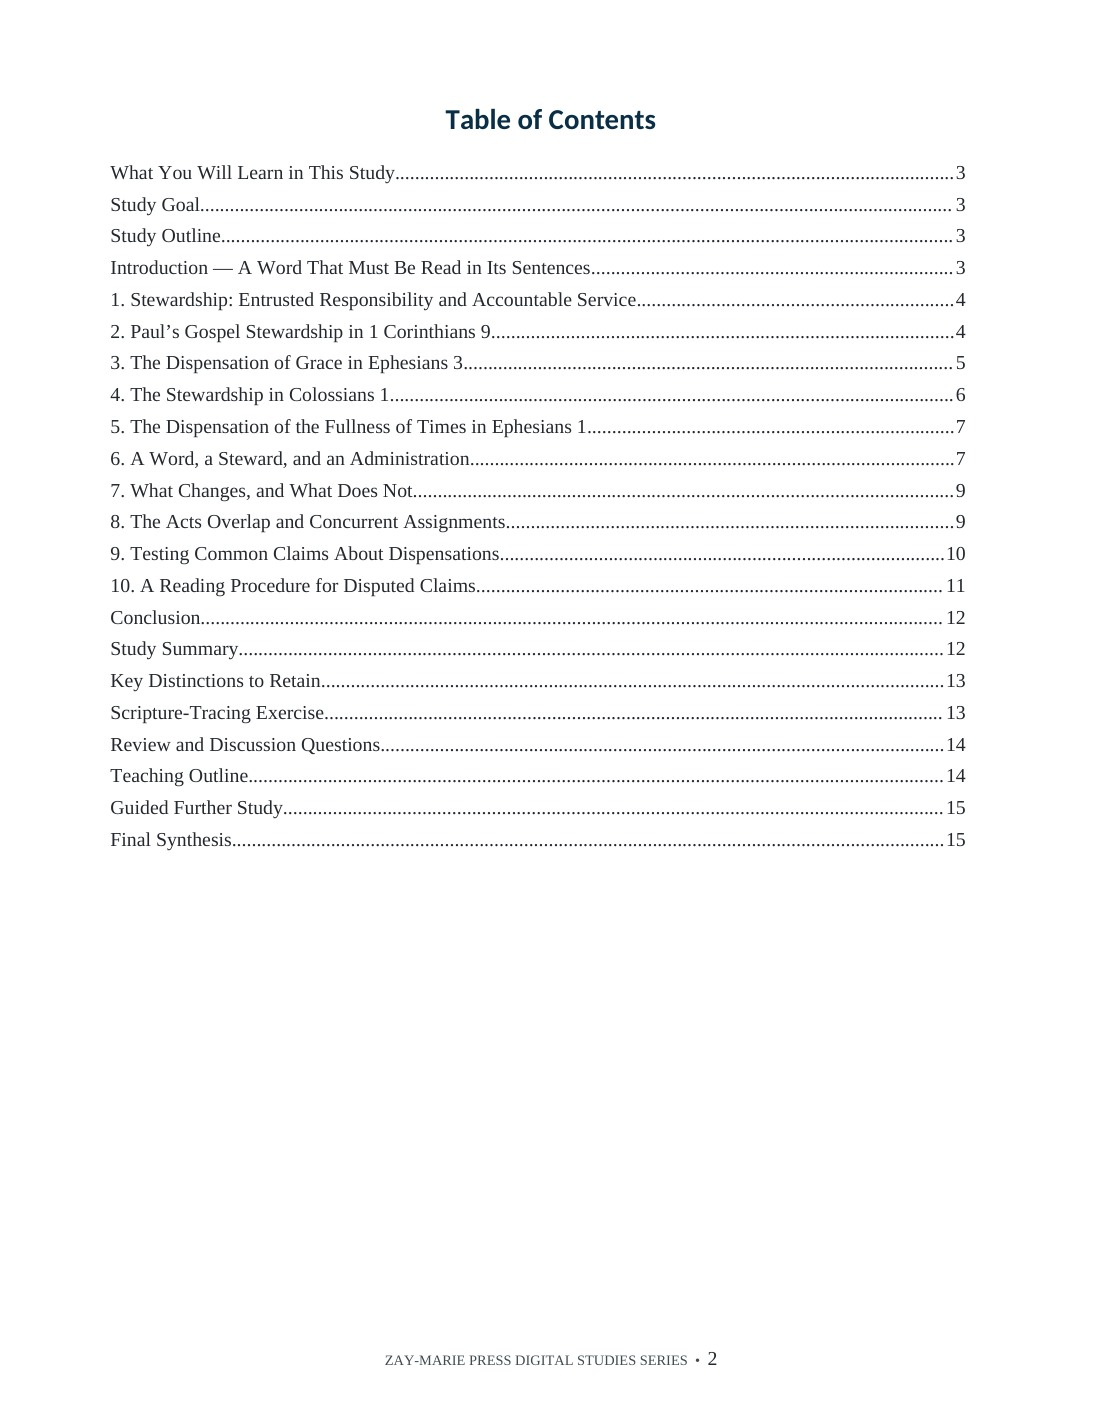
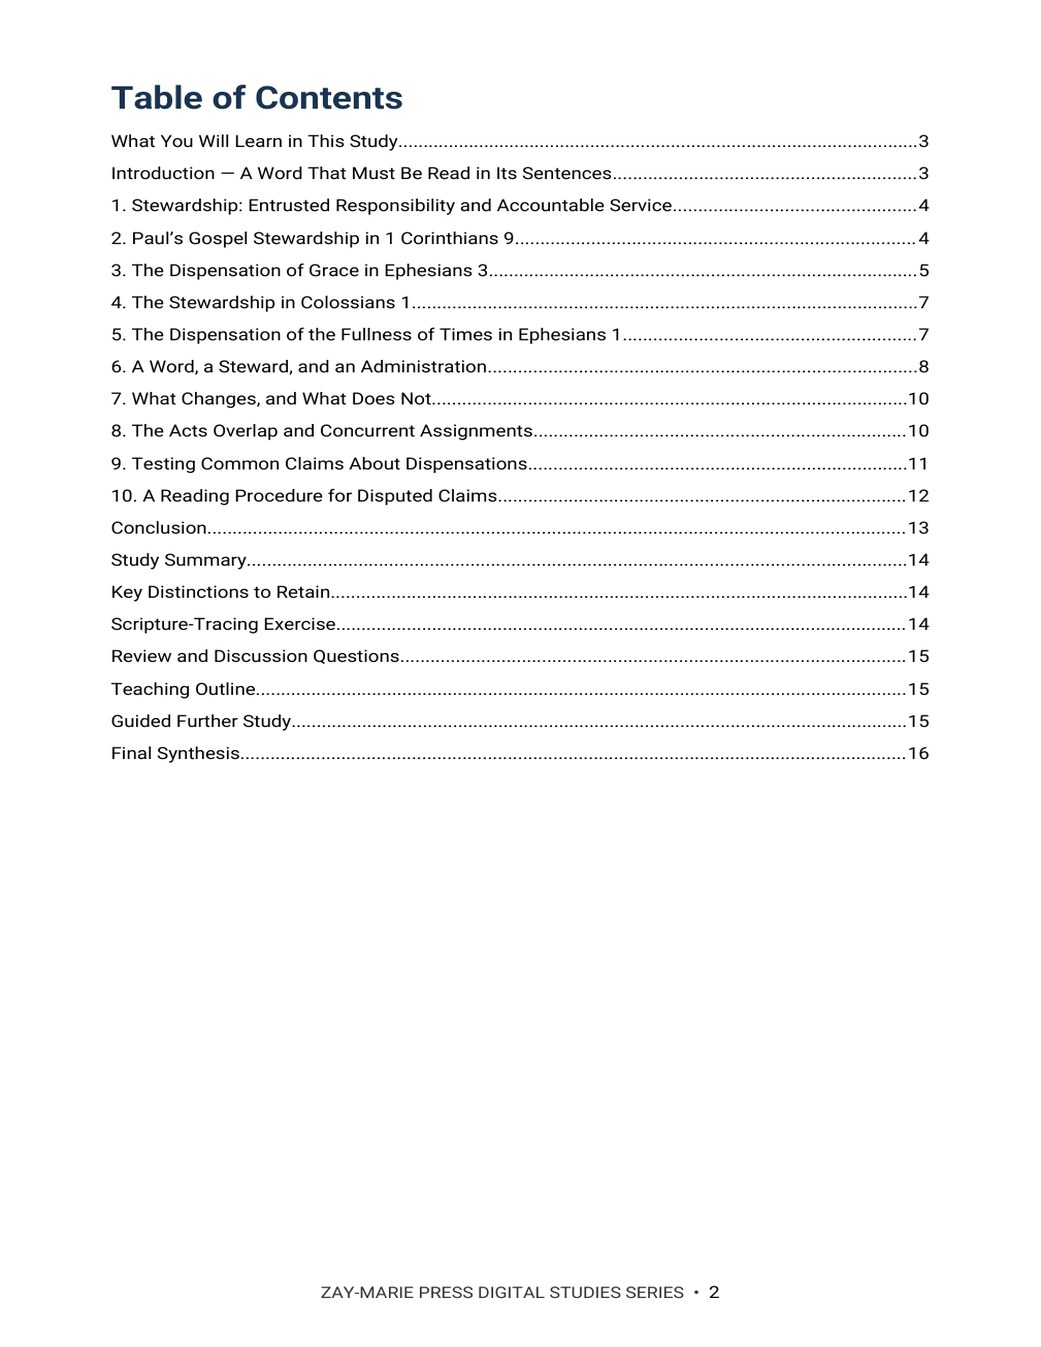
Study 58 (What Is a Dispensation?): rebuilt to Study 52 standard, previews 2/3/7, process-wording points and cards; audit v1.89
Claude-Session: https://claude.ai/code/session_013kzJPyMkodVfrxEZGjk3me

Changed region(s): [[0.0922, 0.0624, 0.8915, 0.5924], [0.3074, 0.9354, 0.6455, 0.9666]]

diff --git a/study-58-what-is-a-dispensation.html b/study-58-what-is-a-dispensation.html
@@ -4,9 +4,9 @@
 <header class="site-header"><div class="wrap nav"><a class="logo" href="index.html" aria-label="Zay-Marie Press home"><img src="assets/zay-marie-press-logo-hq.png" alt="Zay-Marie Press" width="420" height="238"></a><button class="menu-toggle" type="button" aria-expanded="false" aria-controls="primary-nav">MENU</button><nav aria-label="Primary navigation" class="primary-nav" id="primary-nav"><a href="index.html">HOME</a><a href="books.html">BOOKS</a><a href="series.html">SERIES</a><a class="active" aria-current="page" href="digital-studies.html">DIGITAL STUDIES</a><a href="biblical-hermeneutics-course.html">COURSE</a><a href="about.html">ABOUT</a><a href="resources.html">RESOURCES</a><a href="contact.html">CONTACT</a></nav></div></header><main><section class="detail-hero"><div class="wrap detail-hero-grid"><div class="detail-cover"><picture><source srcset="assets/study-58-cover.webp" type="image/webp"><img src="assets/study-58-cover.jpg" alt="What Is a Dispensation? — Study 58 cover"></picture></div><div><div class="eyebrow">STUDY 58 · BIBLICAL INTERPRETATION</div><h1>What Is a Dispensation?</h1><p class="detail-subtitle">Stewardship, Revelation, and the Administration Entrusted to Paul</p><p class="detail-kicker">What was entrusted to Paul, and for whom?</p><p class="detail-copy">“Dispensation” can be used as a label for any biblical era, but Paul speaks of a stewardship given to him for others. Study 58 follows the word in its sentences: who entrusts, who serves, what is administered, and who receives the benefit.</p><p class="detail-copy">Compare Paul’s gospel responsibility, the grace stewardship in Ephesians 3, the ministry in Colossians 1, and God’s future administration in Ephesians 1. The passages share administrative language without describing one identical assignment.</p><div class="detail-buyline"><span class="detail-price">$5.99</span><span class="detail-format">Digital PDF · 16 Pages</span><span class="detail-button pending" aria-disabled="true">Checkout Coming Soon</span></div></div></div></section>
 <section class="detail-section"><div class="wrap"><div class="eyebrow">ABOUT THIS STUDY</div><h2>Read the Stewardship in Its Context</h2><p class="lead">Ephesians 3:2 names a stewardship of God’s grace given to Paul for Gentiles. The following verses identify a formerly hidden Mystery now revealed through him and specify fellow membership in one Body in Christ by the gospel. The study distinguishes the entrusted responsibility from the truth made known through it, then compares the different administrative setting of Ephesians 1:10.</p><p class="lead">Study 6 identifies the Mystery’s content; Study 32 compares organizing theological systems; Study 57 examines eternal purpose and Christ’s headship. Study 58 supplies the narrower word and passage study needed before using “dispensation” as a system label. It also shows why Paul’s new stewardship during Acts 9–28 does not itself end Israel’s concurrent prophetic commission or cancel earlier promises.</p>
 <div class="study-distinction"><h3>How These Studies Relate</h3><p>Study 58 asks what the stewardship language actually establishes. Each connected study answers a neighboring question that the word alone cannot settle.</p><p><a href="study-06-the-mystery-revealed-through-paul.html">Study 6 — The Mystery Revealed Through Paul</a> Identify what was hidden and disclosed through Paul; Study 58 then asks how Paul was entrusted to make that truth known.</p><p><a href="study-32-covenant-theology-and-dispensational-theology.html">Study 32 — Covenant Theology and Dispensational Theology</a> Compare wider organizing systems only after testing what Paul’s term establishes in its immediate passages.</p><p><a href="study-57-the-eternal-purpose-of-god.html">Study 57 — The Eternal Purpose of God</a> Examine God’s prior purpose and future fullness without treating Ephesians 1:10 as another description of Paul’s personal commission in Ephesians 3:2.</p><p><a href="study-18-peter-and-paul-distinct-apostolic-commissions.html">Study 18 — Peter and Paul: Distinct Apostolic Commissions</a> Test the concurrent apostolic assignments from Acts and Galatians; the word “dispensation” alone cannot establish their historical timing.</p><p class="connection-guide-link"><a href="study-connections.html#study-58">Explore the full connection guide for Study 58 →</a></p></div>
-<div class="eyebrow">WHAT YOU’LL STUDY</div><h2>Follow the Entrusted Assignment</h2><div class="study-points"><div class="study-point"><h3>Meaning in Context</h3><p>Distinguish stewardship or administration from a bare period label.</p></div><div class="study-point"><h3>Gospel Responsibility</h3><p>Read Paul’s commissioned preaching and local practice in 1 Corinthians 9.</p></div><div class="study-point"><h3>Grace Stewardship</h3><p>Follow entrustment, revelation, recipients, and ministry in Ephesians 3.</p></div><div class="study-point"><h3>The Colossians Parallel</h3><p>Compare Paul’s service to the Church and the Mystery now manifest.</p></div><div class="study-point"><h3>Future Administration</h3><p>Keep Ephesians 1:10 distinct from Paul’s personal commission.</p></div><div class="study-point"><h3>Acts Overlap</h3><p>Test the concurrent assignments by narrative and apostolic evidence.</p></div></div>
-<div class="eyebrow">KEY SCRIPTURES</div><h2>Compare the Passages Before Defining the Term</h2><div class="scripture-grid"><div class="scripture-card"><h3>Luke 16:1–4</h3><p>An ordinary stewardship and its accountability.</p></div><div class="scripture-card"><h3>1 Corinthians 4:1–2</h3><p>Stewards required to be faithful.</p></div><div class="scripture-card"><h3>1 Corinthians 9:16–18</h3><p>Paul’s entrusted gospel responsibility.</p></div><div class="scripture-card"><h3>Ephesians 3:1–12</h3><p>Grace stewardship, revelation, and the Mystery’s content.</p></div><div class="scripture-card"><h3>Colossians 1:24–29</h3><p>The ministry given to Paul for the Church.</p></div><div class="scripture-card"><h3>Ephesians 1:9–10</h3><p>God’s ordering of all things in the fullness of times.</p></div><div class="scripture-card"><h3>Galatians 2:7–9</h3><p>Recognized apostolic assignments during the overlap.</p></div><div class="scripture-card"><h3>Acts 28:25–28</h3><p>Israel’s response and the national prophetic suspension.</p></div></div>
+<div class="eyebrow">WHAT YOU’LL STUDY</div><h2>Follow the Entrusted Assignment</h2><div class="study-points"><div class="study-point"><h3>Meaning in Context</h3><p>Trace oikonomia through Luke 16:1–4 and 1 Corinthians 4:1–2, noting who entrusts, who serves, and what the context must supply.</p></div><div class="study-point"><h3>Gospel Responsibility</h3><p>Read 1 Corinthians 9:16–18 for the entrusted responsibility, separating the commission from Paul’s chosen manner of exercising it.</p></div><div class="study-point"><h3>Grace Stewardship</h3><p>Follow Ephesians 3:1–12 in order, marking entrustment, revelation, the content stated in verse 6, ministry and present result.</p></div><div class="study-point"><h3>The Colossians Parallel</h3><p>Compare Colossians 1:24–29 with Ephesians 3, noting the steward, the recipients and the proclamation.</p></div><div class="study-point"><h3>Future Administration</h3><p>Read Ephesians 1:9–10 in its own sentence, noting the actor, the scope and the phrase “fulness of times.”</p></div><div class="study-point"><h3>Acts Overlap</h3><p>Test claims about dispensations against Galatians 2:7–9, Acts 15 and Acts 28:25–28, asking what each passage names beyond the word itself.</p></div></div>
+<div class="eyebrow">KEY SCRIPTURES</div><h2>Compare the Passages Before Defining the Term</h2><div class="scripture-grid"><div class="scripture-card"><h3>Luke 16:1–4</h3><p>Note the ordinary household setting: who entrusts, who serves, who is accountable.</p></div><div class="scripture-card"><h3>1 Corinthians 4:1–2</h3><p>Mark what is required of a steward and of whom.</p></div><div class="scripture-card"><h3>1 Corinthians 9:16–18</h3><p>Separate the entrusted responsibility from Paul’s chosen manner of exercising it.</p></div><div class="scripture-card"><h3>Ephesians 3:1–12</h3><p>Follow entrustment, revelation, the content of verse 6, and the ministry that results.</p></div><div class="scripture-card"><h3>Colossians 1:24–29</h3><p>Mark the steward, the giver, the recipients and the proclamation.</p></div><div class="scripture-card"><h3>Ephesians 1:9–10</h3><p>Note the actor, the scope, and the phrase “fulness of times.”</p></div><div class="scripture-card"><h3>Galatians 2:7–9</h3><p>Read what is recorded about the ministries recognized for Peter and for Paul.</p></div><div class="scripture-card"><h3>Acts 28:25–28</h3><p>Trace Paul’s citation of Isaiah, Israel’s response, and the turn to the Gentiles.</p></div></div>
 <div class="eyebrow">FROM THE STUDY</div><h2>The Question Behind the Word</h2><div class="excerpt"><blockquote>“Dispensation” names an administration or stewardship whose precise content comes from its context.</blockquote><p>Ask who entrusted it, who serves, what is ordered or made known, and who receives it before drawing a larger historical conclusion.</p></div>
-<div class="eyebrow">A LOOK INSIDE</div><h2>Preview the Study Before You Purchase</h2><p class="preview-instruction">Click any page to enlarge it for reading.</p><div class="preview-grid"><div class="preview-card"><a class="preview-image-link" data-preview-lightbox href="assets/study-58-page-2.jpg"><img src="assets/study-58-page-2.jpg" alt="Study 58 table of contents"></a><div class="page-no">Interior Page 2</div><h3>Table of Contents</h3><p>See the full structure and scope of the study.</p></div><div class="preview-card"><a class="preview-image-link" data-preview-lightbox href="assets/study-58-page-3.jpg"><img src="assets/study-58-page-3.jpg" alt="Study 58 learning outcomes and goal"></a><div class="page-no">Interior Page 3</div><h3>Learning Outcomes and Study Goal</h3><p>See the questions and interpretive controls that guide the reading.</p></div><div class="preview-card"><a class="preview-image-link" data-preview-lightbox href="assets/study-58-page-6.jpg"><img src="assets/study-58-page-6.jpg" alt="Study 58 interior page comparing Pauline stewardship passages"></a><div class="page-no">Interior Page 6</div><h3>The Stewardship in Colossians</h3><p>Read a substantive comparison without disclosing the study’s full synthesis.</p></div></div>
+<div class="eyebrow">A LOOK INSIDE</div><h2>Preview the Study Before You Purchase</h2><p class="preview-instruction">Click any page to enlarge it for reading.</p><div class="preview-grid"><div class="preview-card"><a class="preview-image-link" data-preview-lightbox href="assets/study-58-page-2.jpg"><img src="assets/study-58-page-2.jpg" alt="Study 58 table of contents"></a><div class="page-no">Interior Page 2</div><h3>Table of Contents</h3><p>See the full structure and scope of the study.</p></div><div class="preview-card"><a class="preview-image-link" data-preview-lightbox href="assets/study-58-page-3.jpg"><img src="assets/study-58-page-3.jpg" alt="Study 58 learning outcomes and goal"></a><div class="page-no">Interior Page 3</div><h3>Learning Outcomes and Study Goal</h3><p>See the questions and interpretive controls that guide the reading.</p></div><div class="preview-card"><a class="preview-image-link" data-preview-lightbox href="assets/study-58-page-7.jpg"><img src="assets/study-58-page-7.jpg" alt="Study 58 interior page comparing Pauline stewardship passages"></a><div class="page-no">Interior Page 7</div><h3>The Stewardship in Colossians</h3><p>Read a substantive comparison without disclosing the study’s full synthesis.</p></div></div>
 <div class="eyebrow">WHAT’S INCLUDED</div><h2>A Focused Study of Stewardship</h2><div class="includes-grid"><div class="include-item"><h3>16-Page Digital PDF</h3><p>Approved cover and 15-page interior with aligned contents.</p></div><div class="include-item"><h3>Ten Teaching Sections</h3><p>Move from the word’s uses to textual and historical claims.</p></div><div class="include-item"><h3>Passage Comparison Table</h3><p>Keep each administration’s subject and scope in view.</p></div><div class="include-item"><h3>Key Distinctions</h3><p>Separate stewardship, content, period, and theological system.</p></div><div class="include-item"><h3>Scripture-Tracing Exercise</h3><p>Record giver, steward, recipients, timing, and what remains unstated.</p></div><div class="include-item"><h3>Teaching Outline and Further Study</h3><p>Use guided passages to explain and test the study’s claims.</p></div></div>
 <div class="final-buy"><div><div class="eyebrow">STUDY 58 · DIGITAL STUDY</div><h2>What Is a Dispensation?</h2><p>16-page digital PDF · For personal use</p></div><div class="final-offer"><div class="detail-price">$5.99</div><span class="detail-button pending" aria-disabled="true">Checkout Coming Soon</span></div></div><a class="back-link" href="digital-studies.html">← Back to All Digital Studies</a></div></section></main><div class="preview-lightbox" id="preview-lightbox" role="dialog" aria-modal="true" aria-label="Expanded study preview"><button class="preview-lightbox-close" type="button" aria-label="Close preview">×</button><img id="preview-lightbox-image" alt=""></div><footer class="site-footer"><div class="wrap footer-grid"><div class="footer-about"><h3>Zay-Marie Press</h3><p class="footer-tagline"><em>Where the Bible Means What It Says.</em></p><p>Zay-Marie Press is a Christian theological publisher dedicated to producing doctrinally precise, carefully structured biblical resources that equip pastors, teachers, and serious students with clarity, depth, and Scripture-anchored truth.</p><p><a href="https://zaymariepress.com">zaymariepress.com</a><br><a href="mailto:info@zaymariepress.com">info@zaymariepress.com</a></p></div><div class="footer-column"><h3>Explore</h3><div class="footer-links-stacked"><a href="books.html">Books</a><br><a href="series.html">Series</a><br><a href="biblical-hermeneutics-course.html">Course</a><br><a href="digital-studies.html">Digital Studies</a><br><a href="resources.html">Resources</a><br><a href="bible-book-summaries.html">Bible Book Summaries</a><br><a href="doctrinal-packets.html">Doctrinal Packets</a><br><a href="historical-drift.html">Historical Drift</a><br><a href="about.html">About</a><br><a href="contact.html">Contact</a></div></div><div class="footer-column"><h3>Reader Support</h3><div class="footer-links-stacked"><a href="reader-support.html#faq">FAQ</a><br><a href="reader-support.html#shipping-returns">Shipping &amp; Returns</a><br><a href="reader-support.html#digital-downloads">Digital Downloads</a><br><a href="reader-support.html#contact-support">Contact Support</a></div></div><div class="footer-column"><h3>Acts Overlap</h3><p><strong>Acts Overlap Theology Series</strong></p><p><em>Two Distinct Streams. One Overlap.</em></p><p><a href="series.html">Series Overview</a></p></div></div><div class="wrap footer-bottom">© 2026 Zay-Marie Press. All rights reserved.</div></footer><script src="site.js"></script><script>const lightbox=document.getElementById('preview-lightbox'),lightboxImage=document.getElementById('preview-lightbox-image'),closeLightbox=()=>{lightbox.classList.remove('open');lightboxImage.src='';};document.querySelectorAll('[data-preview-lightbox]').forEach(link=>link.addEventListener('click',event=>{event.preventDefault();lightboxImage.src=link.href;lightboxImage.alt=link.querySelector('img').alt;lightbox.classList.add('open');}));document.querySelector('.preview-lightbox-close').addEventListener('click',closeLightbox);lightbox.addEventListener('click',event=>{if(event.target===lightbox)closeLightbox();});document.addEventListener('keydown',event=>{if(event.key==='Escape')closeLightbox();});</script></body></html>

diff --git a/controlling-documents/Digital_Studies_PAM_Audit_v1.89.md b/controlling-documents/Digital_Studies_PAM_Audit_v1.89.md
@@ -318,3 +318,4 @@ Study 15 PDF not yet supplied. Typography: none of Studies 2, 3, 6, 8 is in EB G
 - v1.86 (2026-10-02): Study 55 (Reconciled to God) read in full against the PAM and Framework from the publisher's DOCX (PRODUCTION MASTER): no conflicts and no ruling needed; conforming wording applied under Rule 10 and approved by the publisher. Rule 12 passage anchors added for Romans 5:1–11 and 2 Corinthians 5:14–21 (Ephesians and Colossians read as Body instruction under "Romans–Philemon governs the Body"); the Romans 11:25 ruling added at 8.2; the Rule 7 remnant clarifier added to Investigation 5; the standing overlap sentence added at 5.3; Ephesians 2:14 now reads "the Mosaic law, abolished for the Body" with "'brought near' is not 'made Israel'"; Acts 28 reads "national judicial suspension, not abolition" in 5.3 and 8.1. Section 17 rewrites: eight What You Will Learn points became six process points; callouts 7→5 (Interpretive Control and Peace Control became run-in paragraphs); Study Outline became a numbered list; four KJV tables added to reach 16 pages. The title-page line "Biblical Doctrine" in the source is a retired label and is not carried forward. Category: Doctrinal Themes. Built to the Study 52 reference format. Website: three points, two Key Scripture cards and the Ephesians/Colossians points reworded to process wording; third preview moved from page 7 to page 8.
 - v1.87 (2026-10-02): Study 56 (Inheritance) read in full against the PAM and Framework from the publisher's DOCX (PRODUCTION MASTER): no ruling needed; conforming wording applied under Rule 10 and approved by the publisher. Acts 28 now reads "national judicial suspension, not abolition" at 3 and 9, and the §9 overlap sentence replaces "did not merge their audiences, identities" (Rule 7 overlap sentence added at 1 Peter and §9); the Galatians 3 ruling (seed = prophetic fulfillment, Gentiles participate spiritually, not an identity transfer, never "spiritual Israel") added at 4; the Rule 7 remnant clarifier added after Ephesians 1:12–13; 1 Peter reads "Jewish believers scattered abroad (1:1)" with the 1 Peter anchoring sentence (non-KJV "elect strangers of the dispersion" replaced by KJV 1:1 wording); the verbatim Hebrews sentence added at first treatment of Hebrews 11; Acts 20:32 reports the text without assigning it to a single program (Rule 11). Studies 5, 6, 17, 18, 31, 33, 40, 46, 52 and 53 remain pointers (PAM Rule 3). §17: What You Will Learn rewritten as six process-worded points; the website points and eight Key Scripture cards rewritten to process wording. Rebuilt to the Study 52 golden standard (16 pages, Roboto only, five callouts, three KJV tables: Galatians 3–4, Ephesians 1:11–14, 1 Peter 1:1–5; Ephesians 3:6 material merged into section 7). New cover artwork supplied by the publisher (682×1024, upscaled to 1600×2400; baked lettering removed and retyped in the standard typography, DOCTRINAL THEMES label); previews are PDF pages 2, 3 and 4. Category: Doctrinal Themes (Category Standard v1.1). site.js unchanged (56:16).
 - v1.88 (2026-10-02): Study 57 (The Eternal Purpose of God) read in full against the PAM and Framework from the publisher's DOCX (PRODUCTION MASTER): no conflicts and no ruling needed; conforming wording applied under Rule 10 and approved by the publisher. Acts 28 now reads "national judicial suspension, not abolition" in the Introduction and §7, with the Rule 7 overlap sentence added at §7; Ephesians 2:14–16 carries "the Mosaic law, abolished for the Body" and "'Brought near' is not 'made Israel'"; the Romans 11:25 ruling added to the Scripture-Tracing exercise; the Rule 8 anchoring sentence added for 2 Timothy at first treatment (Ephesians, Colossians and Titus read as Body instruction under "Romans–Philemon governs the Body"). Studies 5, 6, 11, 17, 30, 52 and 56 remain pointers (PAM Rule 3). §17: What You Will Learn rewritten as six process-worded points; the website points and eight Key Scripture cards rewritten to process wording. Rebuilt to the Study 52 golden standard (16 pages, Roboto only, five callouts with the Timing and Grace controls as run-in paragraphs, two KJV tables: 2 Timothy 1:9–10 and Colossians 1:26–27; Teaching Outline as Roman-numeral lines). Cover: website cover unchanged (DOCTRINAL THEMES). Previews are PDF pages 2, 3 and 7. Category: Doctrinal Themes (Category Standard v1.1). site.js unchanged (57:16).
+- v1.89 (2026-10-02): Study 58 (What Is a Dispensation?) read in full against the PAM and Framework from the publisher's DOCX (PRODUCTION MASTER): no conflicts and no ruling needed; conforming wording applied under Rule 10 and approved by the publisher. Acts 28 now reads "national judicial suspension, not abolition" in the Introduction, §8 and the Scripture-Tracing exercise; "mixture of identities" now reads "mixture of programs" with the standing overlap sentence added at §8; "Acts 15 is an Overlap event and is not assigned to a single program" added at §8. Galatians 2:7–9 and Acts 15 remain report-only; Studies 4, 6, 11, 14, 17, 18, 20, 21, 32, 38, 39, 43, 45, 47, 51, 54, 56 and 57 remain pointers (PAM Rule 3). §17: What You Will Learn rewritten as six process-worded points; the website points and eight Key Scripture cards rewritten to process wording. Rebuilt to the Study 52 golden standard (16 pages, Roboto only, five callouts, four KJV tables: 1 Corinthians 9:16–17, Ephesians 3:2–3 and 3:6, Colossians 1:25, Ephesians 1:9–10; Teaching Outline as Roman-numeral lines). Cover: website cover unchanged (FOUNDATIONS). Previews are PDF pages 2, 3 and 7. Category: Foundations (Category Standard v1.1). site.js unchanged (58:16).
